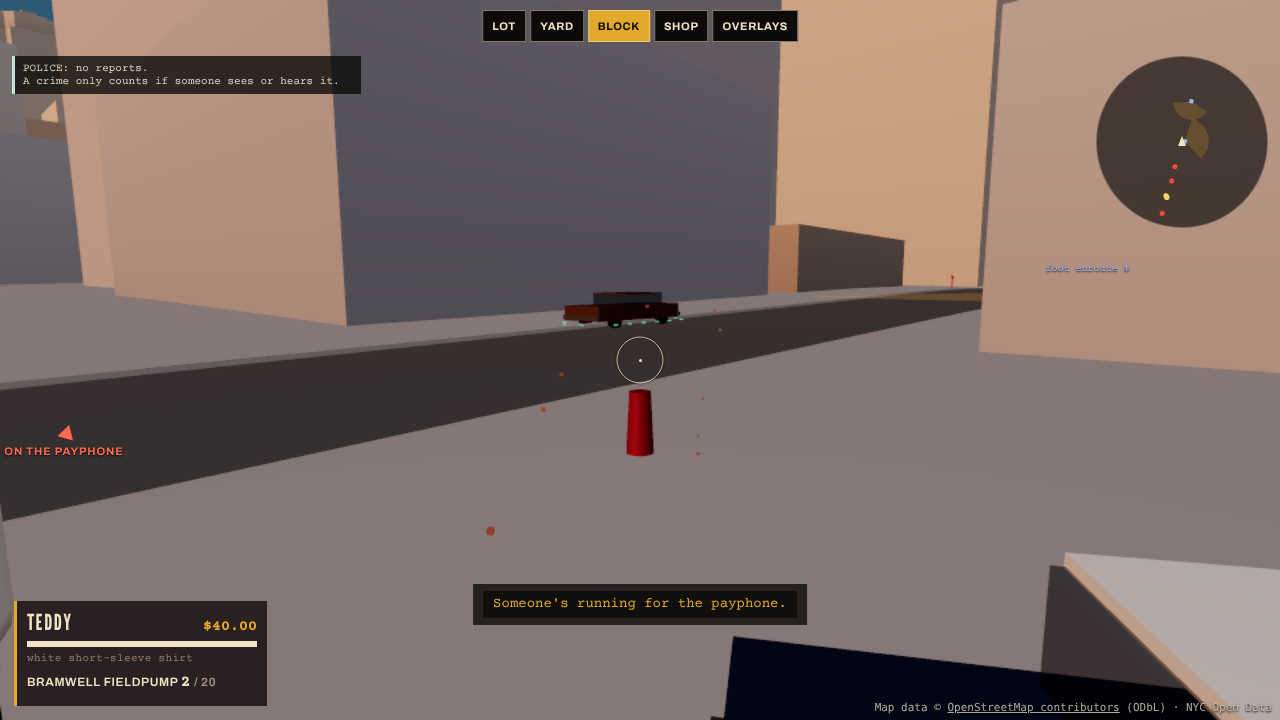
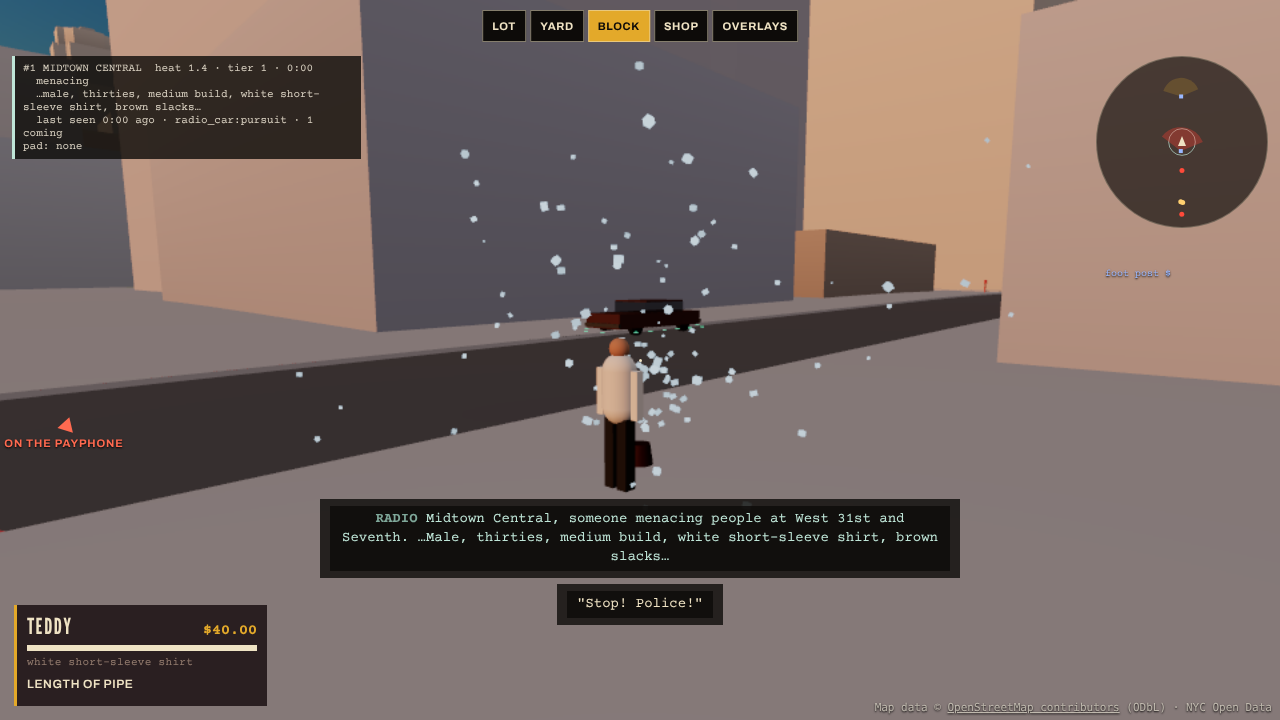
Gameplay: open a hydrant with a pipe (vandalism, geyser); re-recorded hydrant and touch frames; recorder kills the preview server group
Claude-Session: https://claude.ai/code/session_01H4ZSJ7ih6pW16fwcDhuHtD

diff --git a/tools/gameplay/record.ts b/tools/gameplay/record.ts
@@ -125,12 +125,10 @@ const SCENARIOS: Record<string, { url: string; viewport?: { width: number; heigh
   hydrant: {
     url: 'station=block',
     run: async ({ ev, wait, shot }) => {
-      await ev(`(() => { const G = __GP; G.g.equip('weapon.pump'); G.g.inv.give('char.teddy_arce', 'item.pump'); G.g.inv.give('char.teddy_arce', 'item.ammo_12', 20); G.g.equip('weapon.pump'); G.g.currentGun().loaded = 5; G.teleport(-711, G.BLOCK.zS + 2.2, Math.PI/2); const h = G.propDefs.find(p => p.id === 'b_hyd'); G.aimAt([h.x, h.y + 0.4, h.z]); G.g.setContext({ device: 'mouse' }); G.g.setAiming(true); })()`);
-      await wait(0.5);
-      for (let i = 0; i < 6 && !(await ev<boolean>(`__GP.g.props.isBroken('b_hyd')`)); i++) { await ev(`__GP.g.setFiring(true)`); await wait(1.0); }
-      await ev(`(() => { const G = __GP; G.g.setAiming(false); const h = G.propDefs.find(p => p.id === 'b_hyd'); G.setCam([h.x - 6, h.y + 2.2, h.z + 5], [h.x, h.y + 1.2, h.z]); })()`);
-      await wait(1.2);
-      await shot('16_hydrant_geyser', 'A hydrant shot open: it geysers for 90 s and pushes people back; breaking it is vandalism and the witnesses treat it like any other crime.');
+      // the 1974 way: a length of pipe on the hydrant's nut on a hot afternoon
+      await ev(`(() => { const G = __GP; G.g.inv.give('char.teddy_arce', 'item.pipe'); G.g.equip('weapon.pipe'); const h = G.propDefs.find(p => p.id === 'b_hyd'); G.teleport(h.x - 1.0, h.z + 0.6, -Math.PI/2); G.g.openHydrant(); G.setCam([h.x - 6, h.y + 2.4, h.z + 5.5], [h.x, h.y + 1.4, h.z]); })()`);
+      await wait(2.5);
+      await shot('16_hydrant_geyser', 'A hydrant opened with a length of pipe on a hot afternoon: it geysers for 90 s and pushes people back. Opening it is vandalism, and the witnesses treat it like any other crime.');
     },
   },
   touch: {
@@ -147,7 +145,7 @@ const SCENARIOS: Record<string, { url: string; viewport?: { width: number; heigh
 };
 
 async function main() {
-  const server = spawn('npx', ['vite', 'preview', '--port', String(PORT), '--strictPort', '--bypass-lock'], { cwd: ROOT, stdio: 'pipe' });
+  const server = spawn('npx', ['vite', 'preview', '--port', String(PORT), '--strictPort', '--bypass-lock'], { cwd: ROOT, stdio: 'pipe', detached: true });
   for (let i = 0; i < 60; i++) { try { await fetch(`http://localhost:${PORT}/`); break; } catch { await new Promise((r) => setTimeout(r, 500)); } }
   const browser = await chromium.launch({ args: ['--use-angle=swiftshader', '--enable-unsafe-swiftshader', '--ignore-gpu-blocklist'] });
   for (const [name, sc] of Object.entries(SCENARIOS)) {
@@ -175,7 +173,7 @@ async function main() {
     if (errs.length) console.log(`  page errors: ${errs.slice(0, 3).join(' | ')}`);
     await page.close();
   }
-  await browser.close(); server.kill();
+  await browser.close(); try { process.kill(-server.pid!); } catch { server.kill(); } // the whole npx → vite group
   const prev = fs.existsSync(path.join(OUT, 'frames.json')) ? JSON.parse(fs.readFileSync(path.join(OUT, 'frames.json'), 'utf8')) : [];
   const merged = [...prev.filter((p: any) => !notes.some((n) => n.file === p.file)), ...notes].sort((a, b) => a.file.localeCompare(b.file));
   fs.writeFileSync(path.join(OUT, 'frames.json'), JSON.stringify(merged, null, 2));

diff --git a/src/gameplay/index.ts b/src/gameplay/index.ts
@@ -893,6 +893,17 @@ export class Gameplay {
     const base = sp < 0.2 ? 0 : this.pc.crouch ? 2 : this.pc.sprinting ? 20 : sp > 2.5 ? 12 : 6;
     return base * sk;
   }
+  /** Open a hydrant the 1974 way: a wrench or a length of pipe on the nut (any blunt melee weapon). Vandalism if seen. */
+  openHydrant(): string | null {
+    if (!this.player || this.reg.weapon(this.pc.weapon).family !== 'blunt') return null;
+    const p = this.player.position();
+    for (const pr of this.props.list.values()) {
+      if (pr.type !== 'hydrant' || this.props.isBroken(pr.id) || Math.hypot(pr.x - p[0], pr.z - p[2]) > 1.6) continue;
+      this.props.damage(pr.id, 9999, 'melee', this.player.id);
+      return pr.id;
+    }
+    return null;
+  }
   /** Throw a firebomb at a point (lock-on target or aim point). Arson: a witnessed crime, and the fire spreads. */
   throwMolotov(at: V3) {
     if (!this.player || !this.inv.take(this.player.lead, 'item.molotov')) return null;

diff --git a/src/gameplay/tests/fire.test.ts b/src/gameplay/tests/fire.test.ts
@@ -33,3 +33,14 @@ test('stop, drop and roll: dodging while burning usually puts you out', () => {
   }
   assert.ok(out >= 10 && out <= 19, `${out}/20`);
 });
+
+test('a hydrant opens with a pipe (vandalism if seen) and geysers', () => {
+  const r = rig();
+  r.g.addProp('h', 'hydrant', 1, 0, 0);
+  r.sim.add('w', 6, 0, { yaw: Math.atan2(5, 0), nerve: 0.9 });
+  const gz: any[] = []; r.g.on('geyser', (e) => gz.push(e));
+  assert.equal(r.g.openHydrant(), null, 'not with bare hands');
+  r.g.inv.give('char.teddy_arce', 'item.pipe'); r.g.equip('weapon.pipe');
+  assert.equal(r.g.openHydrant(), 'h');
+  assert.ok(gz[0]?.on && r.has('crimeWitnessed'));
+});
